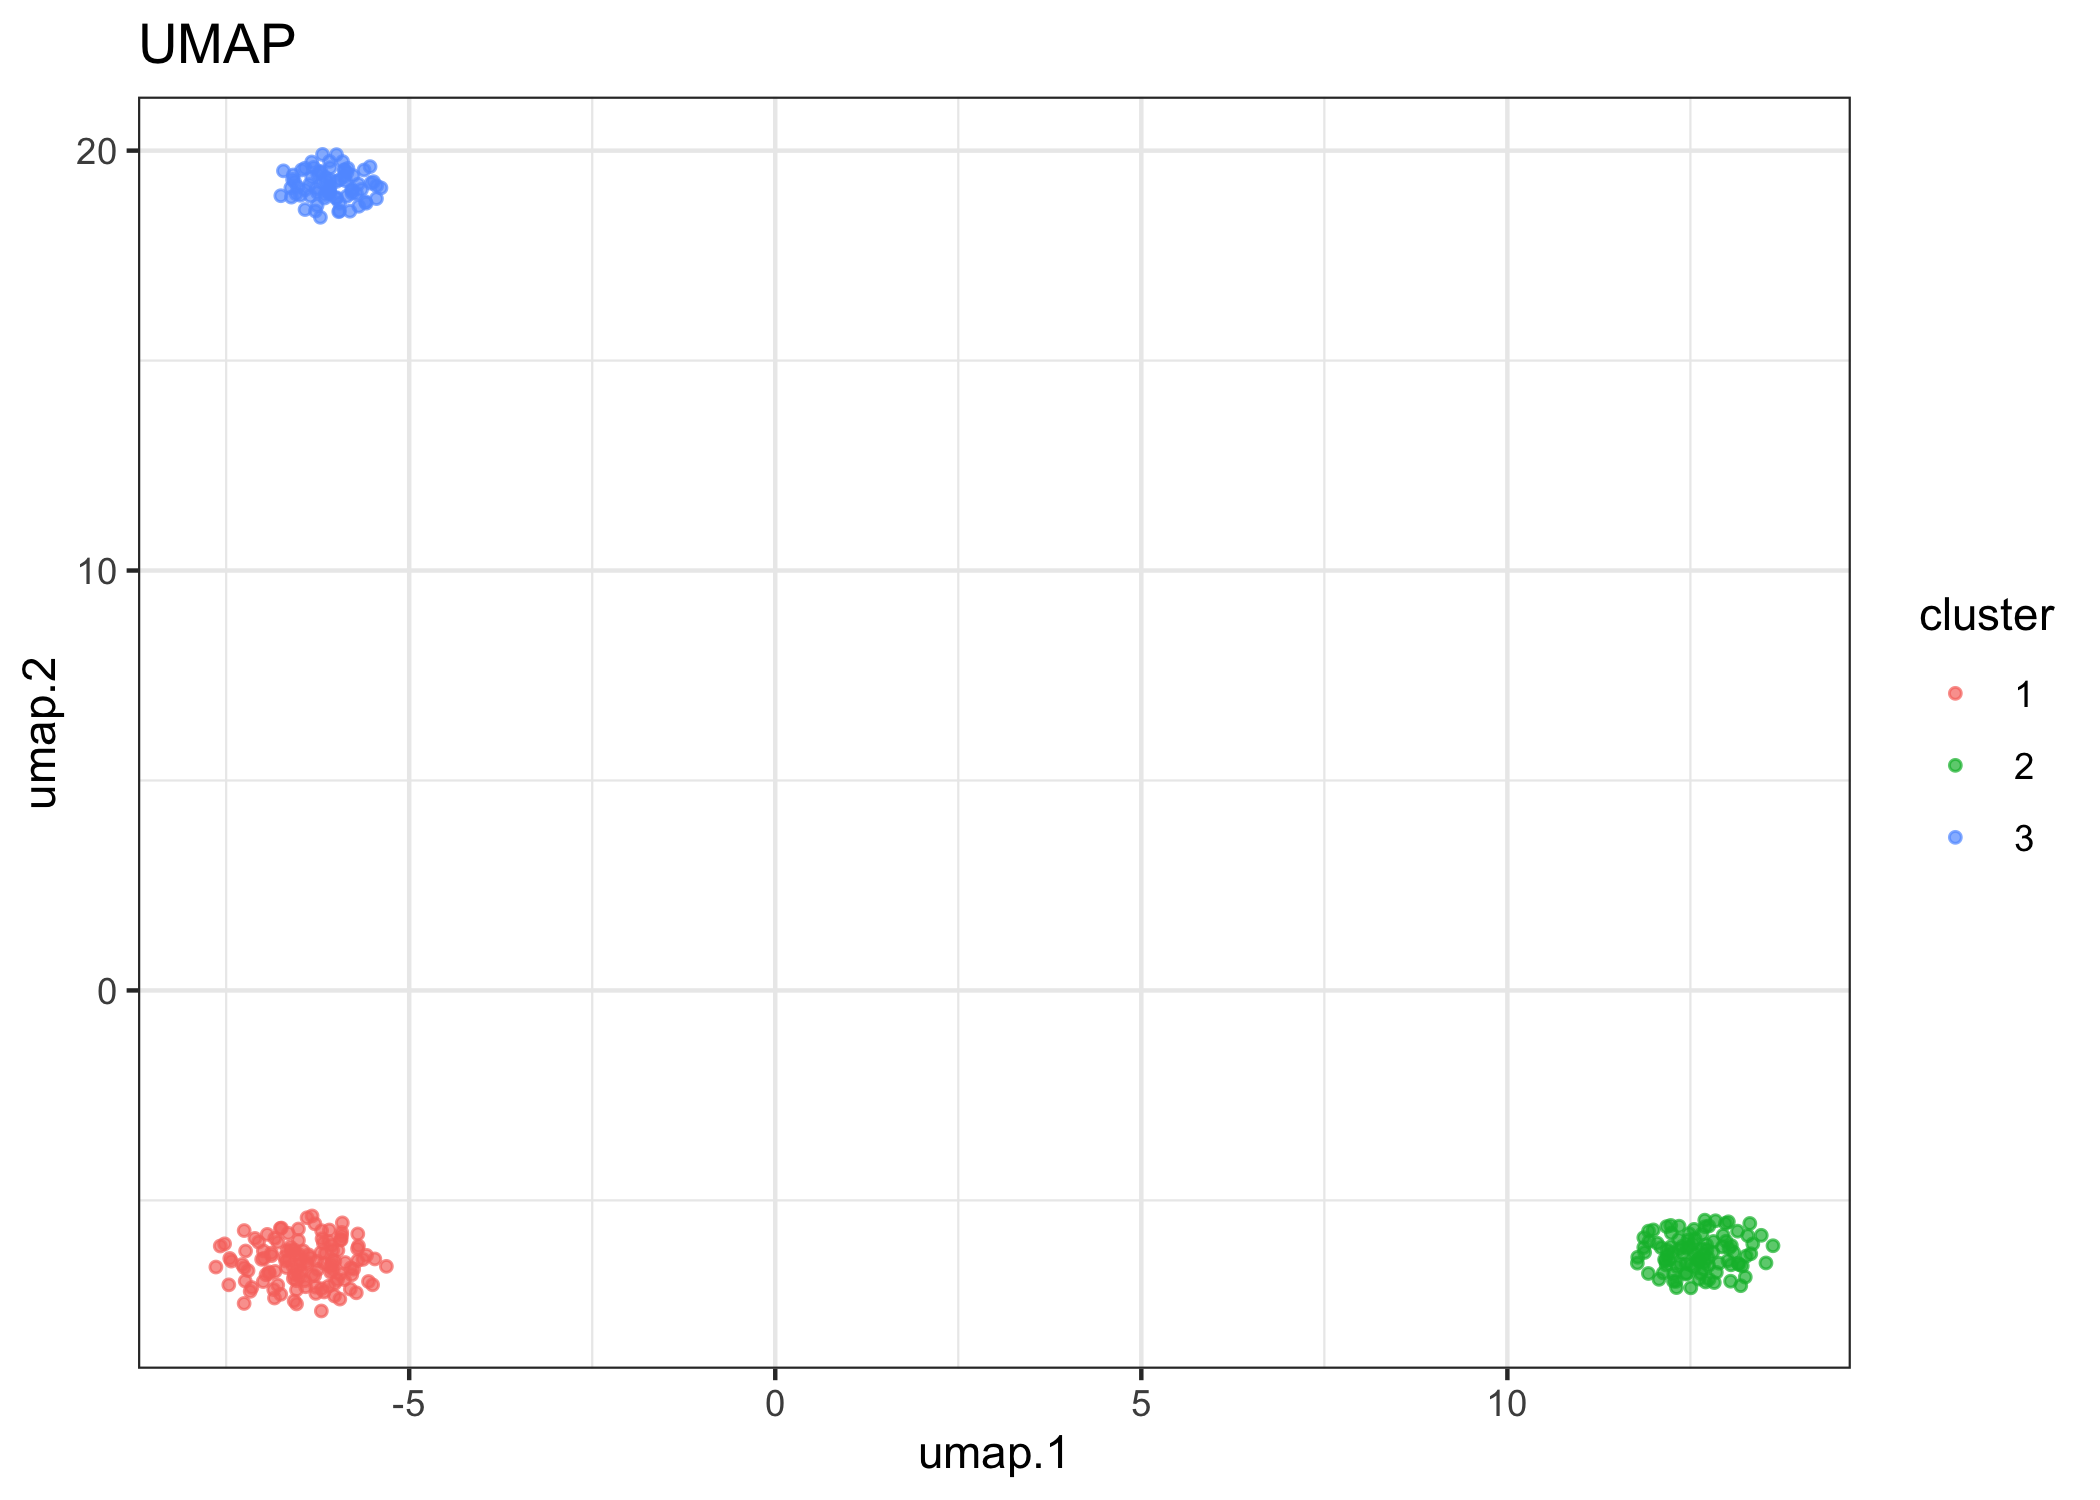
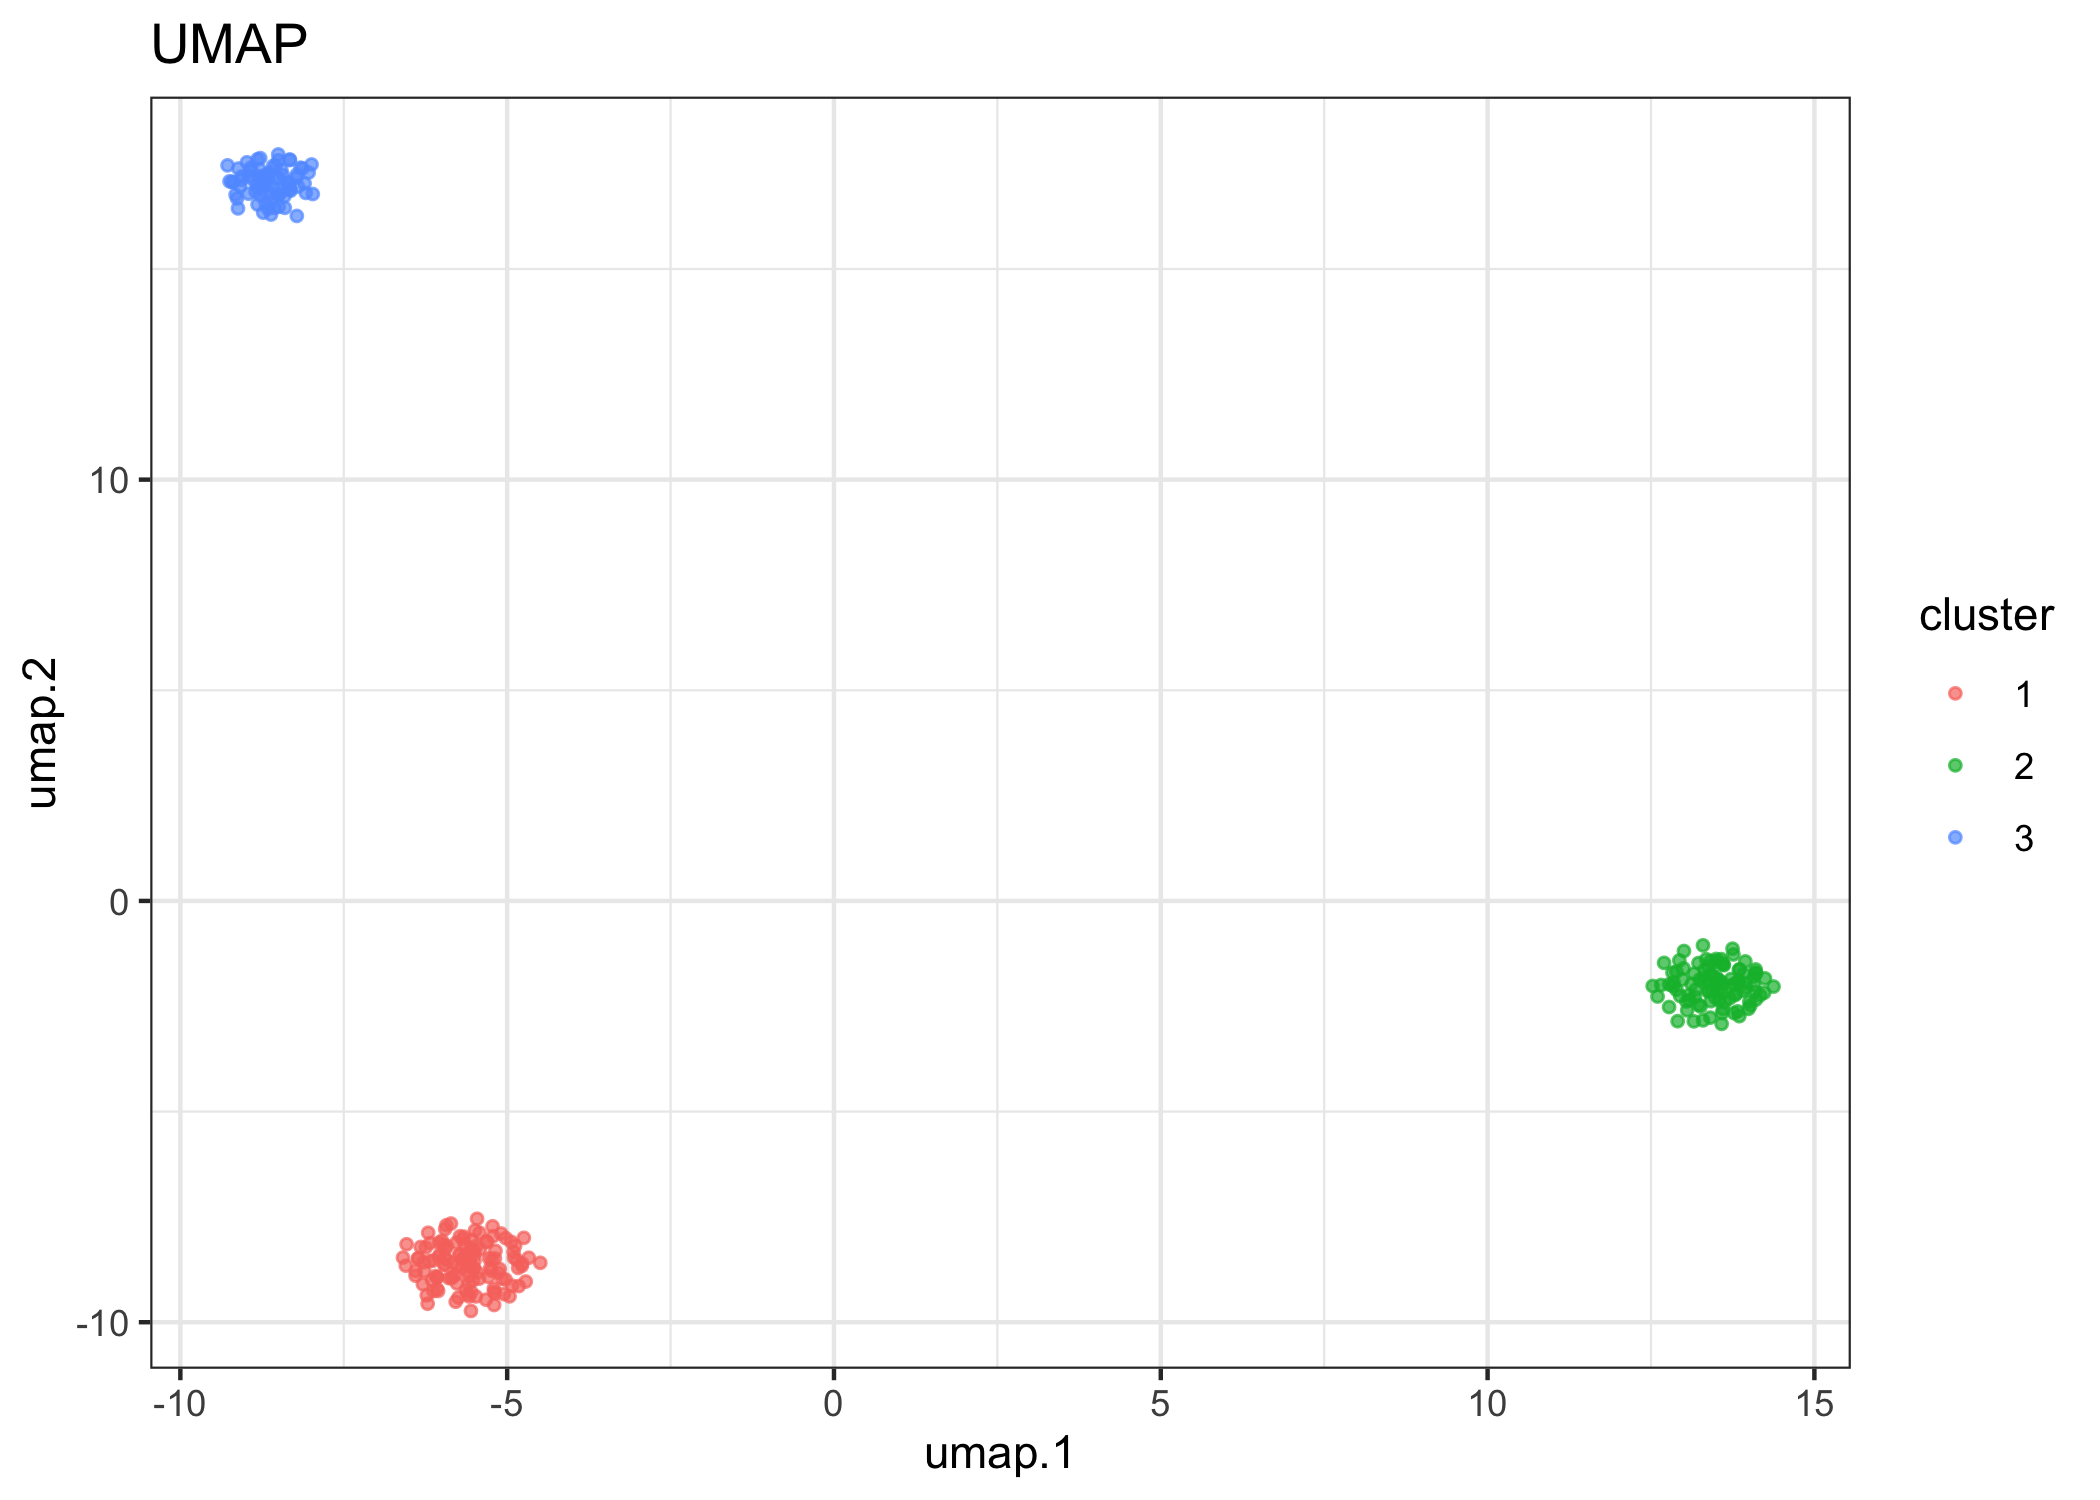
updates to README, manual examples, DESCRIPTION

diff --git a/README.md b/README.md
@@ -8,8 +8,9 @@
 [![R-CMD-check](https://github.com/joeymays/karyotapR/actions/workflows/R-CMD-check.yaml/badge.svg)](https://github.com/joeymays/karyotapR/actions/workflows/R-CMD-check.yaml)
 <!-- badges: end -->
 
-karyotapR enables basic analysis of CNVs using custom genome-wide
-targeted DNA sequencing panels for the Mission Bio Tapestri system.
+karyotapR enables analysis of DNA copy number (aneuploidy) using custom
+genome-wide targeted DNA sequencing panels for the Mission Bio Tapestri
+system.
 
 ## Installation
 
@@ -37,6 +38,7 @@ generated by the Tapestri Pipeline.
 ``` r
 library(karyotapR)
 library(forcats)
+set.seed(2023) #seed set to ensure example is reproducible 
 ```
 
 ``` r
@@ -134,7 +136,9 @@ example.exp <- calcNormCounts(example.exp)
 control.copy.number <- generateControlCopyNumberTemplate(example.exp, sample.feature.label = "cellline3", copy.number = 2)
 example.exp <- calcCopyNumber(example.exp, control.copy.number = control.copy.number, sample.feature = "cluster")
 example.exp <- calcSmoothCopyNumber(example.exp)
-#> ℹ Smoothing copy number by median...✔ Smoothing copy number by median... [1.2s]
+#> ℹ Smoothing copy number by median...
+#> ✔ Smoothing copy number by median... [1.3s]
+#> 
 ```
 
 Visualize copy number. Visualization reveals that cell line 1 has 1 copy
